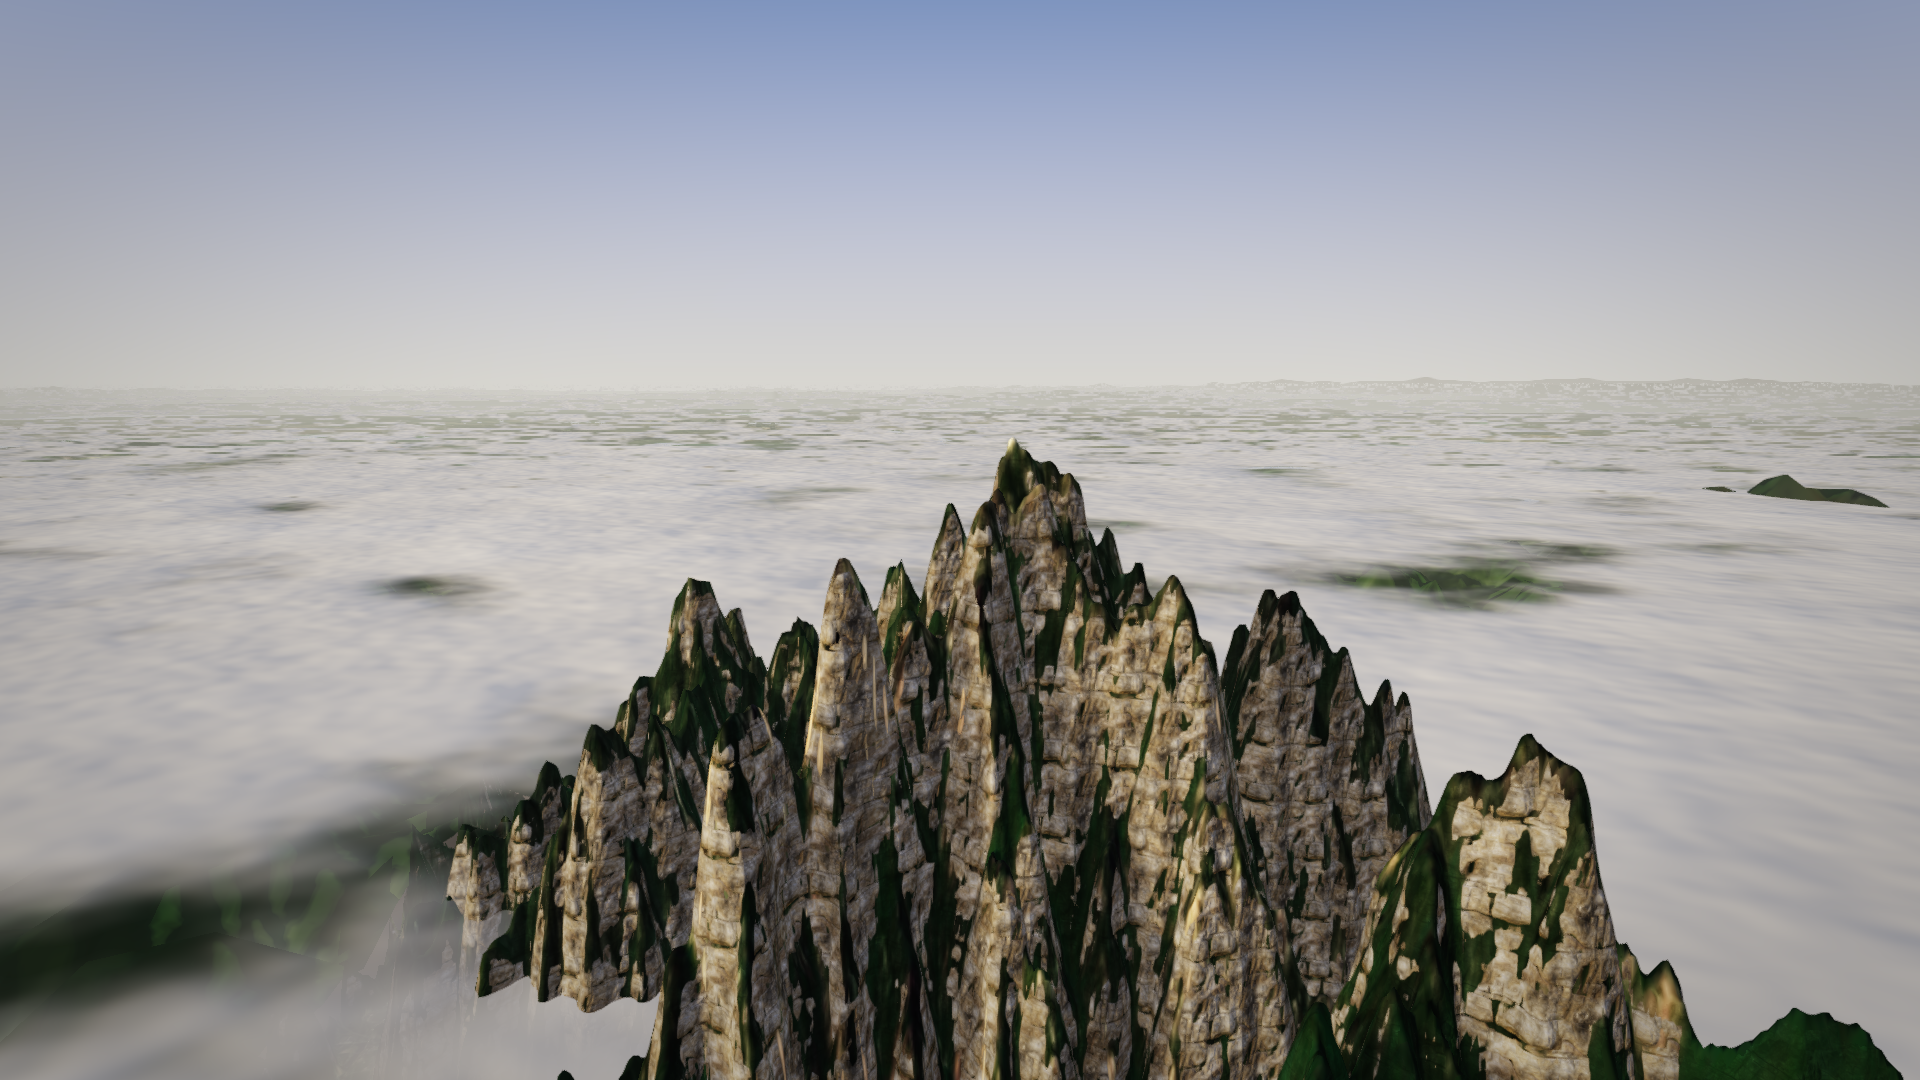
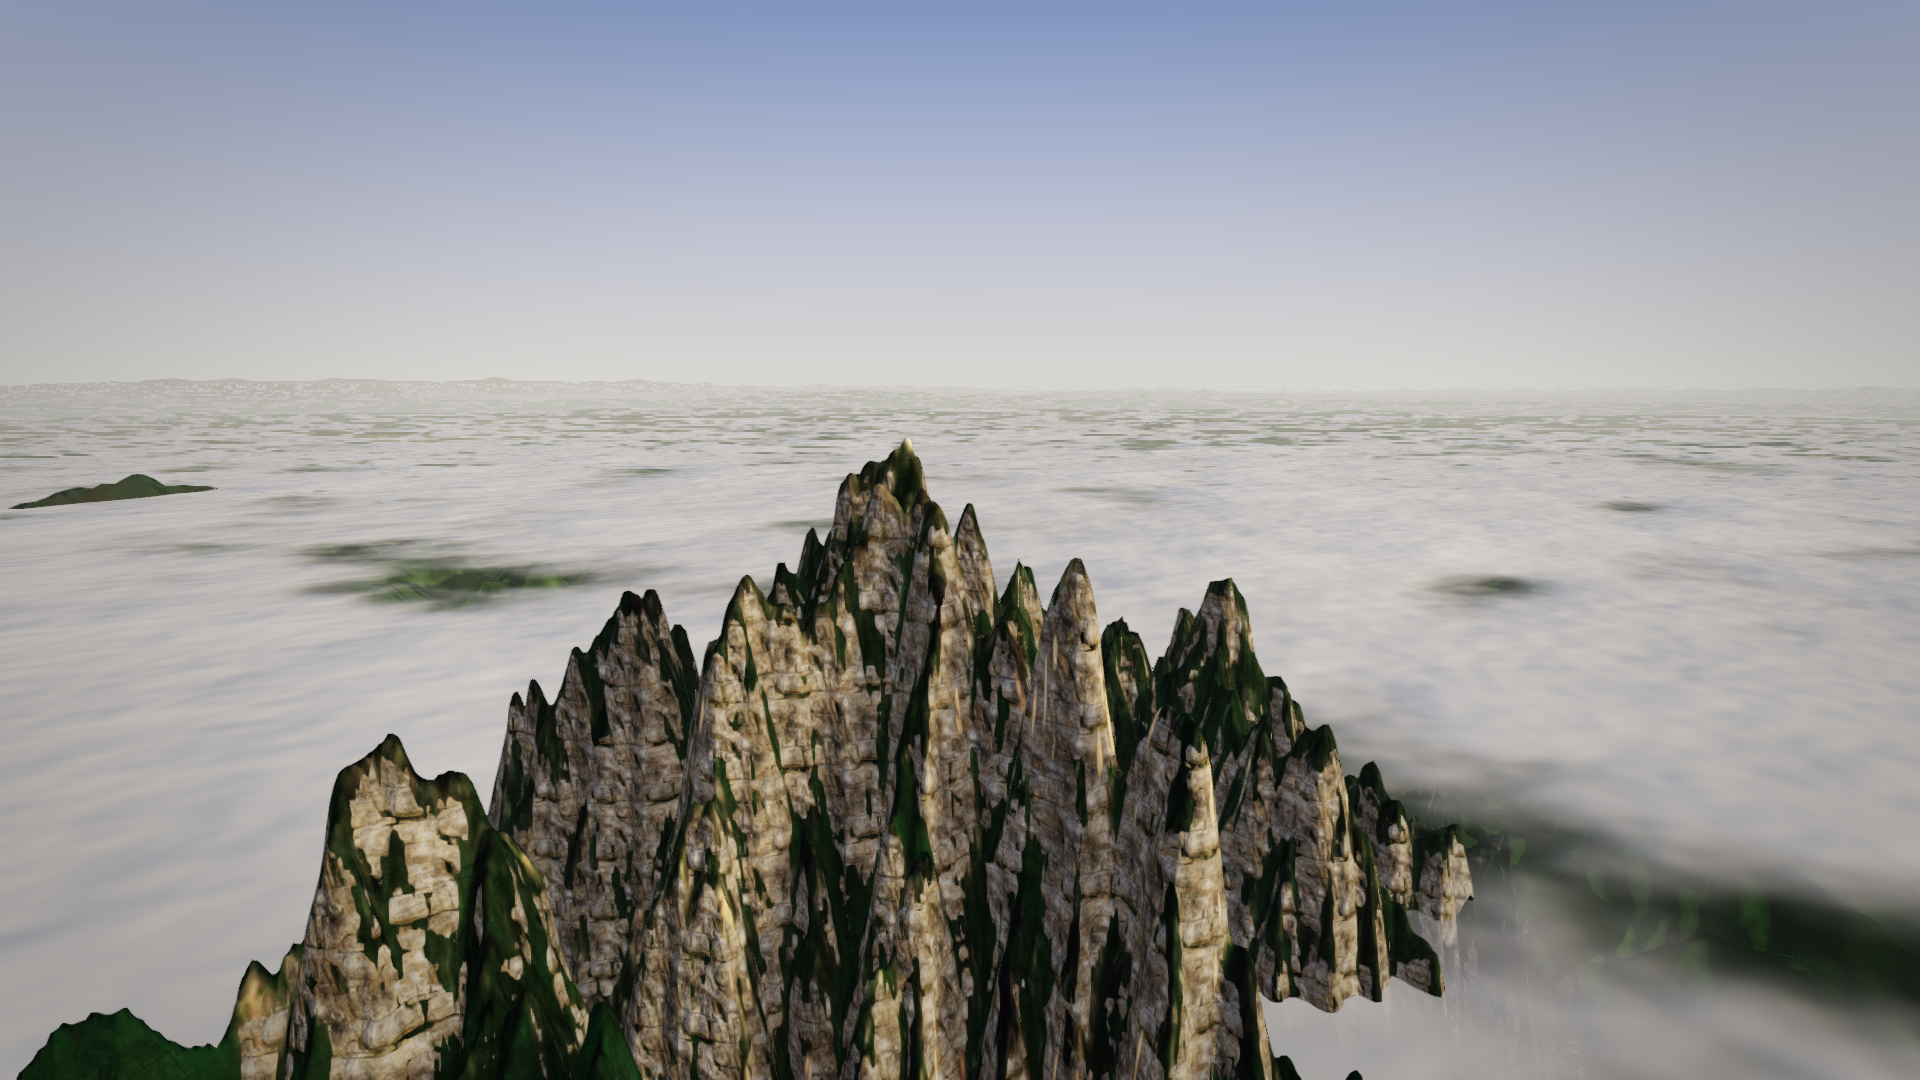
F100: the stills and the cover the right way round
All nine stills taken again (npm run stills, headless, all settled), the
cover's two frames (npm run cover -- frames), and the cover and postcards
drawn again. Each still is its old one mirrored and nothing else: at most
0.4 % of pixels differ by more than 8 levels from the old still turned round
(Huangshan's moving cloud), 57 to 95 % from it as it was. The cover frames
0.3 % and 0.0 %. Every card's crop still holds its subject. Signed off (D77).

diff --git a/docs/findings.md b/docs/findings.md
@@ -2060,13 +2060,18 @@ switched off, which measures time and not direction (`look.ts`).
 
 **What it changes.** Every picture the film draws, and so every still
 (`docs/stills/`), the cover's frames (`docs/cover/`), the cover and the
-postcards: all of them were taken mirrored and are now the wrong way round
-beside the film. They are not taken again here; they want the user's eye
-(D77).
+postcards: all of them were taken mirrored.
+
+**The stills, again** (`npm run stills`, headless, all nine settled). Each
+is its old still turned round and nothing else: against the old one
+mirrored, at most 0.4 % of pixels differ by more than 8 levels (Huangshan's
+clouds, which move), against the old one as it was, 57 to 95 %. The
+cover's two frames (`npm run cover -- frames`) are the same, 0.3 % and 0.0 %,
+and the cover and the postcards are drawn again from them; every card's
+crop still holds its subject. The Wall's late sun is in the west now,
+where 5 pm puts it. Signed off (D77).
 
 **Next.**
-- *The stills and the cover again:* `npm run stills`, then
-  `npm run cover -- frames` and `npm run cover`, and a sign-off.
 - *Anything authored by eye from the screen* - a rail recorded with
   `?record=`, a caption's "ahead" - holds, being positions and not sides;
   a future caption saying "on the left" would now be true.
